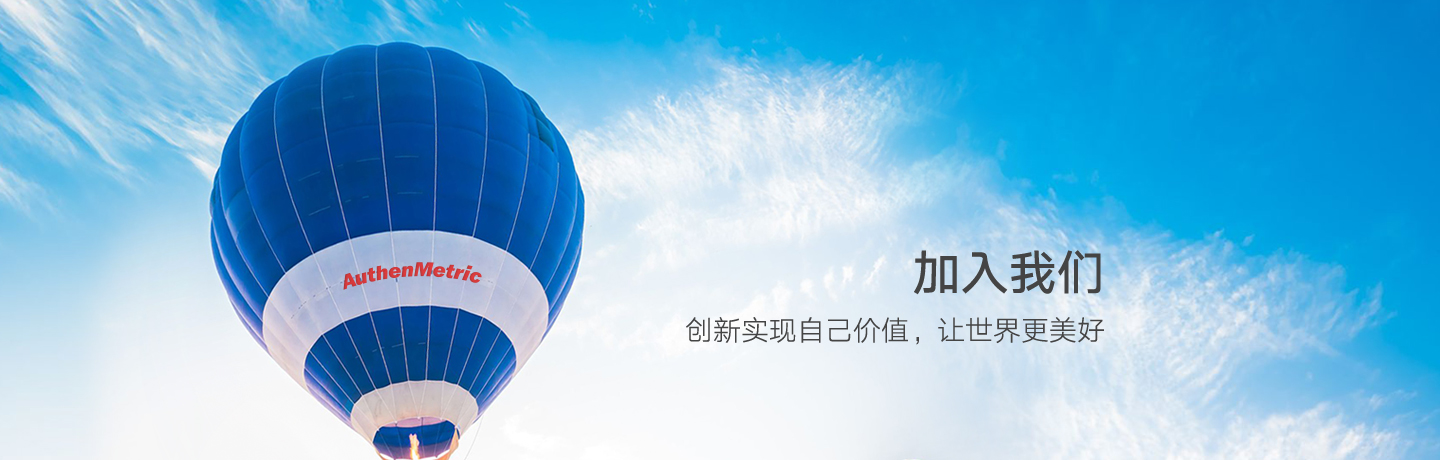
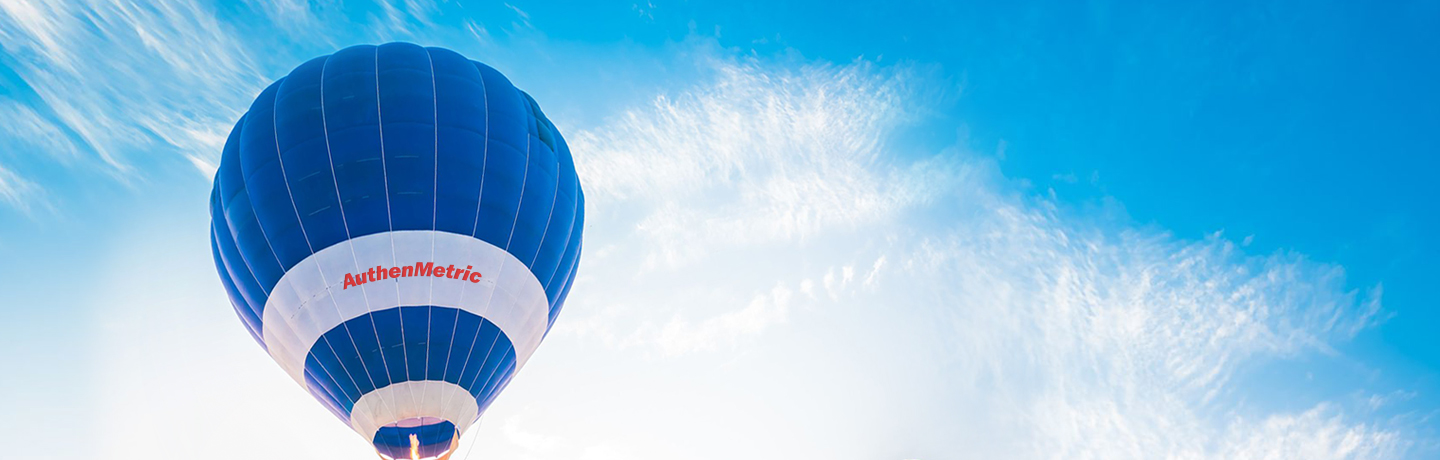
修改图片显示

Changed region(s): [[0.4688, 0.6696, 0.7812, 0.7609], [0.625, 0.5478, 0.7812, 0.6391]]

diff --git a/assets/style/hiring.css b/assets/style/hiring.css
@@ -1,8 +1,27 @@
-img#title-img{
-  width: 100%;
-}
 .title{
-  padding-top: 80px;
+  width: 100%;
+  max-height: 460px;
+  margin-top: 80px;
+  background: url(../images/hiring.jpg) top center;
+  background-size: 1920px 613.33333px;
+  background-repeat: no-repeat;
+}
+.title h1{
+  color: black;
+  font-size: 3em;
+  text-align: right;
+  line-height: 1.5;
+  padding-top: 260px;
+  padding-right: 22%;
+  margin: 0;
+}
+.title h2{
+  color: black;
+  font-size: 1.8em;
+  line-height: 1.4;
+  text-align: right;
+  padding-right: 22%;
+  padding-bottom: 95px;
 }
 .content{
   padding: 3% 16%;
@@ -32,7 +51,9 @@ h3{
 section{
   padding: 2% 0;
 }
-
+section.feature-cases{
+  padding: 0;
+}
 #about-authen h3{
   padding-top: 3%;
 }
@@ -107,14 +128,90 @@ button#mail-us h2{
   font-weight: 600;
 }
 
+.large-screen{
+  display: block;
+}
+.small-screen{
+  display: none;
+}
 
 @media screen and (max-width: 950px) {
   .content{
     padding: 1% 5%;
     font-size: 0.8em;
   }
+  .title{
+    width: 100%;
+    max-height: 460px;
+    margin-top: 80px;
+    background: url(../images/hiring.jpg) top center;
+    background-size: 950px 303px;
+    background-repeat: no-repeat;
+  }
+  .title h1{
+    font-size: 2em;
+    text-align: right;
+    line-height: 1.4;
+    padding-top: 160px;
+    padding-right: 15%;
+    margin: 0;
+  }
+  .title h2{
+    font-size: 1.3em;
+    line-height: 1.6;
+    text-align: right;
+    padding-right: 15%;
+    padding-bottom: 80px;
+  }
+  .large-screen{
+    display: block;
+  }
+  .small-screen{
+    display: none;
+  }
+
+
   ul#about-list li{
     display: block;
   }
+}
 
+
+@media screen and (max-width: 500px) {
+  .content{
+    padding: 1% 5%;
+    font-size: 0.8em;
+  }
+  .title{
+    width: 100%;
+    max-height: 460px;
+    margin-top: 80px;
+    background: url(../images/hiring.jpg) top center;
+    background-size: 500px 159.473684px;
+    background-repeat: no-repeat;
+  }
+  .title h1{
+    font-size: 1.5em;
+    text-align: right;
+    line-height: 1.6;
+    padding-top: 60px;
+    padding-right: 8%;
+    margin: 0;
+  }
+  .title h2{
+    font-size: 0.8em;
+    line-height: 1.2;
+    text-align: right;
+    padding-right: 8%;
+    padding-bottom: 25px;
+  }
+  .large-screen{
+    display: none;
+  }
+  .small-screen{
+    display: block;
+  }
+  ul#about-list li{
+    display: block;
+  }
 }

diff --git a/hire.html b/hire.html
@@ -37,7 +37,9 @@
 			</ul>
 		</nav>
     <div class="title">
-      <img src="./assets/images/hiring.jpg" alt="Authenmetric.com" id="title-img"/>
+      <h1>加入我们</h1>
+      <h2 class="large-screen">创新实现自己价值，让世界更美好</h2>
+      <h2 class="small-screen">创新实现自己价值<br />让世界更美好</h2>
     </div>
 
     <div class="content">

diff --git a/assets/style/main.css b/assets/style/main.css
@@ -409,8 +409,8 @@ footer {
   }
 
   .logo {
-    width: 336px !important;
-    height: 37px !important;
+    width: 300px !important;
+    height: 33px !important;
     background-size: 80% !important;
     background-position: left center !important;
     margin-top: 23px !important;
